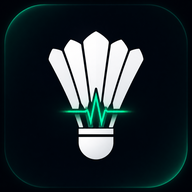
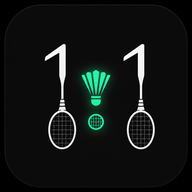
gh-pages: 최종 앱 로고(라켓 1:1 + 에메랄드 셔틀콕) · 대표 그래픽 갱신 (bm-v1.36.2) · test/ 제외

diff --git a/sw.js b/sw.js
@@ -43,15 +43,15 @@
  *             친구 목록으로 채움 · 다시 누르면 지움), 일지 & AI 첫 화면 밀도 정리(루틴 선택 카드
  *             160px 안쪽 · 카드 여백 12px), 5개 탭 공통 한국어 줄바꿈(keep-all)과 상단 버튼
  *             터치 영역·커뮤니티 작성 카드 '분류' 이름표.
- * 2026-11-21: 새 앱 로고(셔틀콕 아래 짧은 파형 + 은은한 테두리 빛) — icon-192·icon-512·
- *             maskable-512(안전 영역 여백)·store-assets/icon-512·favicon.svg·대표 그래픽.
- *             파일이 바뀌어 캐시를 bm-v1.36.1로 한 번 더 올렸습니다.
+ * 2026-11-21: 새 앱 로고(최종 — 라켓 모양 1:1 + 가운데 에메랄드 셔틀콕) — icon-192·icon-512·
+ *             maskable-512(안전 영역 여백 #0d0f0e)·store-assets/icon-512·favicon.svg·대표 그래픽.
+ *             파일이 바뀌어 캐시를 bm-v1.36.2로 한 번 더 올렸습니다.
  * 2026-11-21: 수익화·기록 연결 — 보상형 광고 거래 ID(txId) 중복 적립 차단(광고 SDK 콜백이
  *             두 번 와도 한 번만) · 7일 연속 출석 보너스 하트 +2(MY 하트 카드·충전 시트 안내) ·
  *             일지 입력칸 바로 아래 파트너 전적 한 줄('조환비 · 4전 3승 1패 (75%)') ·
  *             챌린지 자랑 문구에 함께 친 파트너·전적('조환비와 2경기 2승') 자동 포함.
  * ============================================================ */
-var VERSION = 'bm-v1.36.1';
+var VERSION = 'bm-v1.36.2';
 var SHELL = [
   './',
   './index.html',

diff --git a/app.js b/app.js
@@ -988,7 +988,7 @@
     registerSW();
   }
 
-  BM.app = { boot: boot, repaint: repaint, TABS: TABS, ctx: ctx, onRewardAdResult: onRewardAdResult, pendingRewardAd: null, signOut: signOut, version: 'v1.36.1' };
+  BM.app = { boot: boot, repaint: repaint, TABS: TABS, ctx: ctx, onRewardAdResult: onRewardAdResult, pendingRewardAd: null, signOut: signOut, version: 'v1.36.2' };
   if (document.readyState === 'loading') document.addEventListener('DOMContentLoaded', boot);
   else boot();
 })(typeof globalThis !== 'undefined' ? globalThis : this);

diff --git a/index.html b/index.html
@@ -30,7 +30,7 @@
 <link rel="manifest" href="manifest.webmanifest">
 <link rel="icon" href="icons/favicon.svg" type="image/svg+xml">
 <link rel="apple-touch-icon" href="icons/icon-192.png">
-<link rel="stylesheet" href="styles.css?v=20261121-37">
+<link rel="stylesheet" href="styles.css?v=20261121-38">
 <link rel="preconnect" href="https://accounts.google.com">
 <link rel="privacy-policy" href="privacy.html">
 </head>
